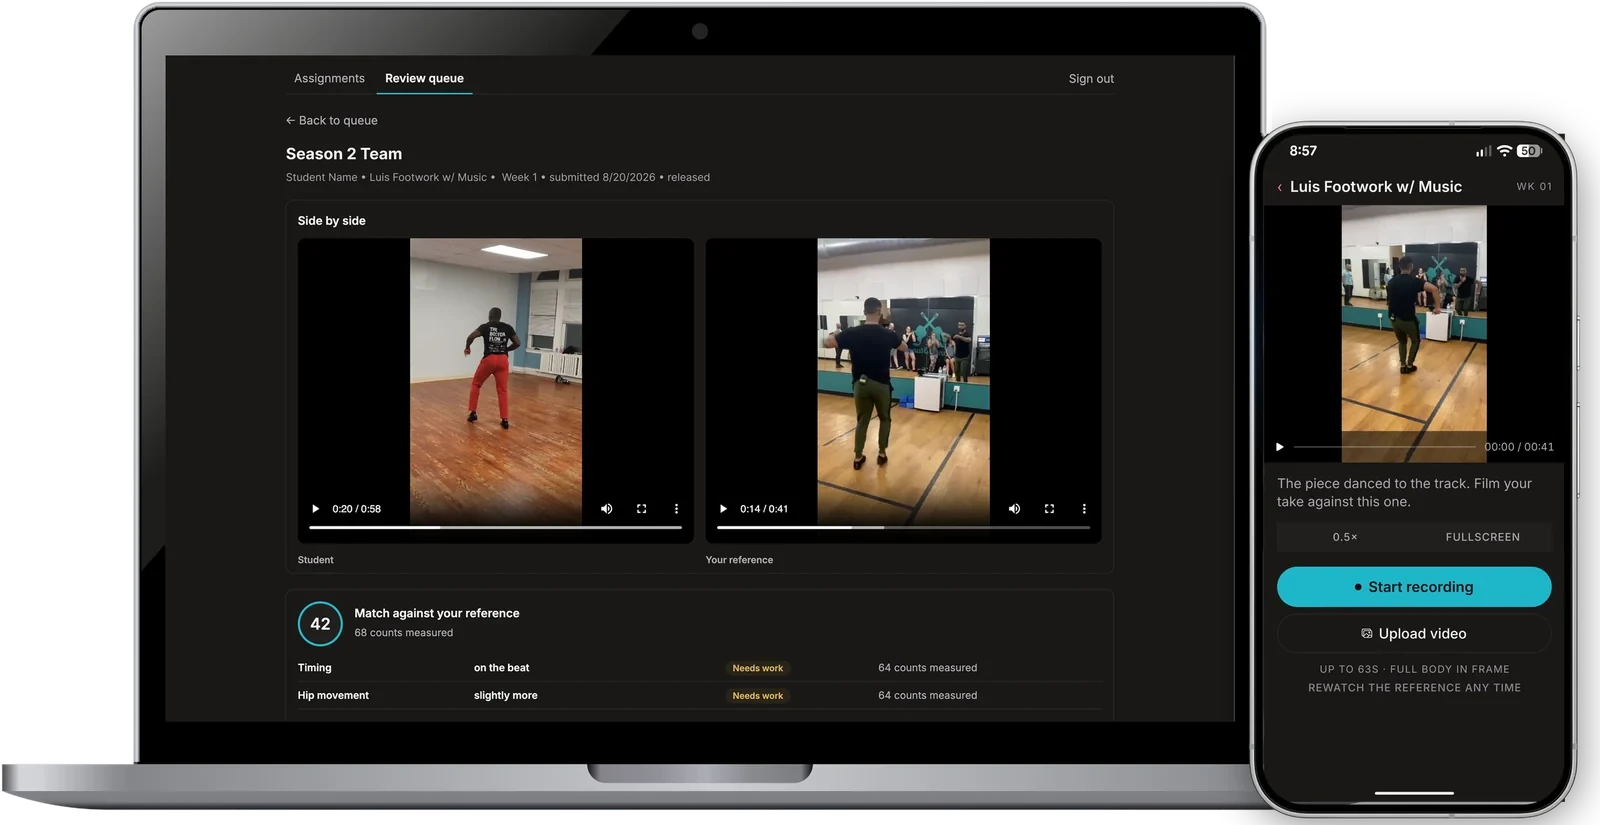
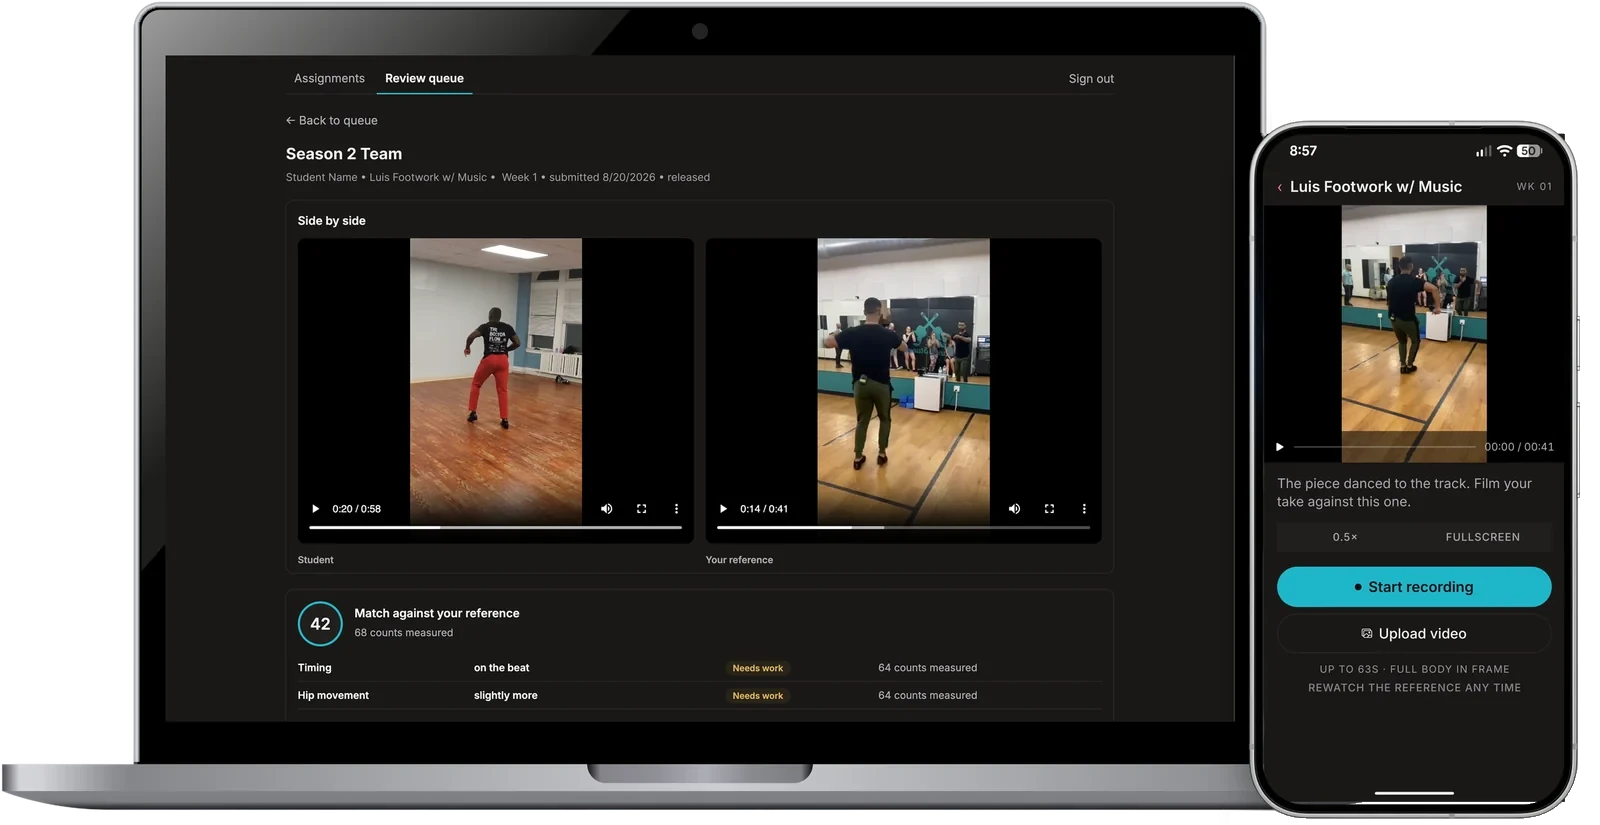
Dance Coach hero: remove the shadow box behind the phone
Claude-Session: https://claude.ai/code/session_014Lh1RsNkYdsw7n6TGjZWwq

Changed region(s): [[0.7812, 0.1818, 1.0, 1.0]]

diff --git a/dance-coach.html b/dance-coach.html
@@ -792,7 +792,7 @@ body[data-theme] .next-card:hover .nc-arrow { background: var(--accent); border-
 
     <p class="case-deck">Dance Coach is a practice app for Latin dance teams. Students record themselves against their instructor&#x27;s reference video, get AI feedback on each practice take, and submit a final take for the instructor to review. I researched and designed it, then built it by directing Claude Code. It runs end to end: an Android app for students, a web dashboard for instructors, and a backend that analyzes movement with pose estimation.</p>
 
-    <figure class="hero-shot"><img src="images/dance-coach/hero.webp?v=2" width="1600" height="825" alt="Instructor review dashboard on a laptop, showing a student's take beside the reference video with a match score of 42, next to the student app on a phone showing a reference video and a Start recording button" /></figure>
+    <figure class="hero-shot"><img src="images/dance-coach/hero.webp?v=3" width="1600" height="825" alt="Instructor review dashboard on a laptop, showing a student's take beside the reference video with a match score of 42, next to the student app on a phone showing a reference video and a Start recording button" /></figure>
 
     <div class="hero-meta"><div class="meta-cell"><span class="k">Role</span><span class="v">Research, product design, system design (data model and user roles), and AI-directed build</span></div><div class="meta-cell"><span class="k">Timeline</span><span class="v">Summer 2026 · in progress</span></div><div class="meta-cell"><span class="k">Context</span><span class="v">Open Vector curriculum (units 1–3), Anthropic’s AI Fluency course, and Google’s People + AI Guidebook</span></div><div class="meta-cell"><span class="k">Tools</span><span class="v">Claude Code, Figma, Claude Design</span><span class="k" style="margin-top:10px">Stack (built by Claude Code)</span><span class="v">MediaPipe, Expo/React Native, FastAPI, Postgres</span></div></div>
     <div class="prose glance" style="margin-top:28px"><p><strong>At a glance</strong></p><ul class="bullets"><li>Interviewed 8 instructors and students before and during the build.</li><li>The full loop is deployed and works end to end, tested with real student and instructor accounts.</li><li>Five rounds of accuracy work: a video compared with itself went from a match score of 75 out of 100 to 100, and the gap between a correct and a deliberately wrong take grew from 2.4 to 11.2 points.</li><li>The feedback still wasn&#x27;t reliable enough to show students unchecked, so I paused building to validate it.</li></ul></div>

diff --git a/index.html b/index.html
@@ -506,7 +506,7 @@
         </div>
         <div class="arrow"><svg viewBox="0 0 16 16" fill="none" stroke-width="2"><path d="M3 13L13 3M13 3H5M13 3V11" stroke-linecap="round"/></svg></div>
         <div class="crop">
-          <img src="images/dance-coach/hero.webp?v=2" alt="Dance Coach instructor review dashboard on a laptop, next to the student app on a phone." />
+          <img src="images/dance-coach/hero.webp?v=3" alt="Dance Coach instructor review dashboard on a laptop, next to the student app on a phone." />
         </div>
       </a>
 
